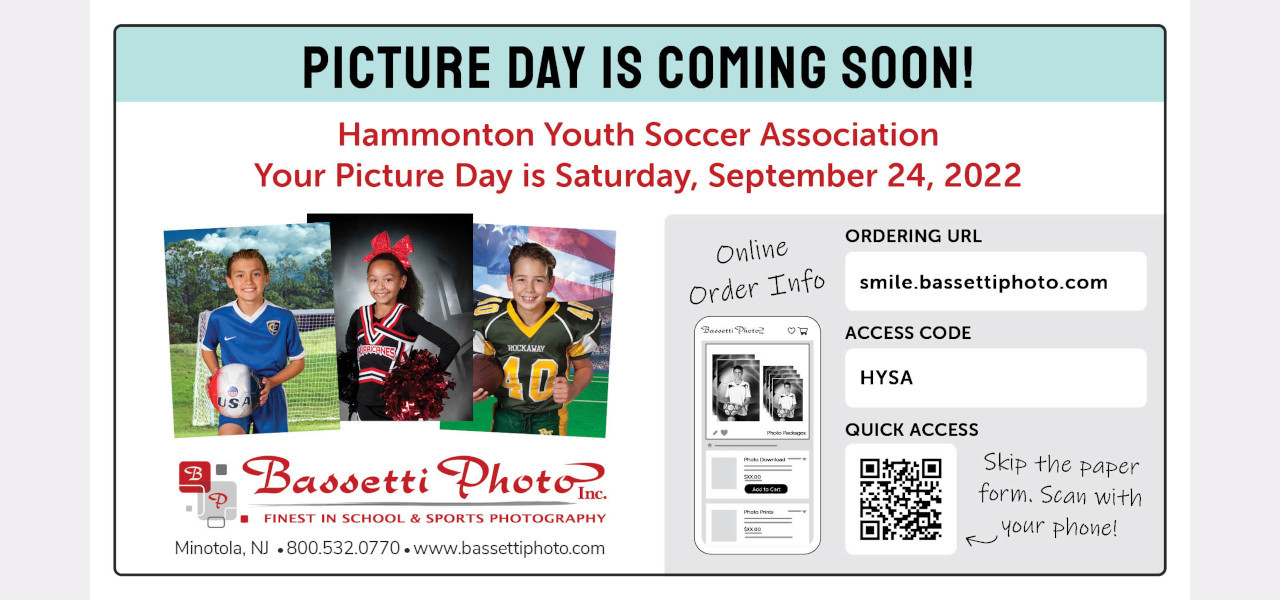
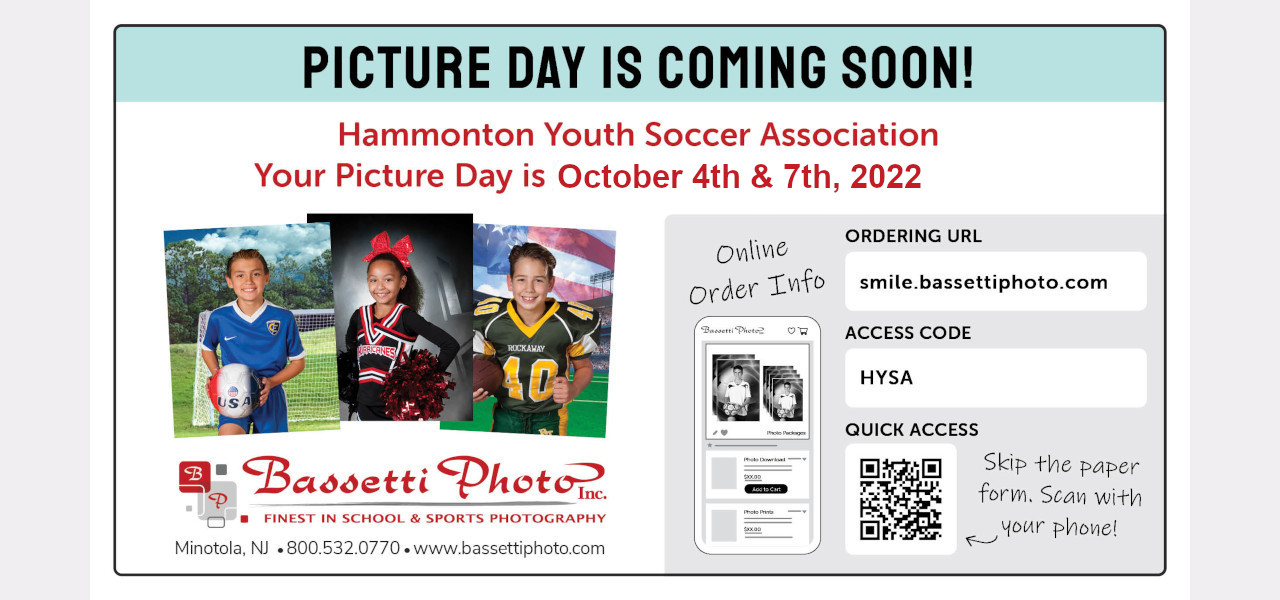
Updated Standings, Updated Index Page, and Updated Picture day photo and date

Changed region(s): [[0.4375, 0.27, 0.8125, 0.33]]

diff --git a/index.html b/index.html
@@ -263,9 +263,9 @@
                               </div>
                           </div>
                         </div>
-                        <div class="carousel-item">
+                        <!-- <div class="carousel-item">
                           <img src="/images/slider/hysa_family_fun_day.jpg" class="d-block w-100" alt="...">
-                          <!-- <div class="carousel-caption d-sm-block text-shadow">
+                          <div class="carousel-caption d-sm-block text-shadow">
                             <h2>New Hammonton Soccer gear online at Showcase Sports.</h2>
                             <div class="merchBtn">
                                 <a href="https://hammontonyouthsoccerapparel.itemorder.com/shop/home/" target="_blank">
@@ -274,8 +274,8 @@
                                     </button>
                                 </a>
                             </div>
-                          </div> -->
-                        </div>
+                          </div>
+                        </div> -->
                         <div class="carousel-item">
                             <img src="/images/slider/hysa_picture_day.jpg" class="d-block w-100" alt="...">
                             <!-- <div class="carousel-caption d-sm-block text-shadow">
@@ -339,32 +339,11 @@
                                 <div class="row newsGroup">
                                     <div class="newsItem">
                                         <div class="col-sm-2 newsImage">
-                                            <img src="/images/f0889088.svg" alt="" class="newsIcon">
-                                        </div>
-                                        <div class="col-sm-10 newsContent">
-                                            <h5 class="fw-bold">
-                                                Family Fun Day! - Saturday, September 17th<br>
-                                                8:30 AM - 11:30 AM<br>
-                                                Come See the Philadelphia Union Mascot & KonaIce
-                                            </h5>
-                                            <div class="merchBtn">
-                                                <!-- <a href="https://smile.bassettiphoto.com" target="_blank">
-                                                    <button type="button" class="btn btn-primary">
-                                                        <i class="fa-solid fa-bags-shopping"></i> Order Photos Here
-                                                    </button>
-                                                </a> -->
-                                            </div>
-                                        </div>
-                                        <div class="clearBoth"></div>
-                                    </div>
-                                </div>
-                                <div class="row newsGroup">
-                                    <div class="newsItem">
-                                        <div class="col-sm-2 newsImage">
                                             <img src="/images/f0976640.svg" alt="" class="newsIcon">
                                         </div>
                                         <div class="col-sm-10 newsContent">
-                                            <h5 class="fw-bold">Picture day - Saturday, September 24th<br>Use Code HYSA</h5>
+                                            <h5 class="fw-bold">Picture day - Saturday, October 4th & 7th<br>
+                                                More Into to Follow - Use Code HYSA </h5>
                                             <div class="merchBtn">
                                                 <a href="https://smile.bassettiphoto.com" target="_blank">
                                                     <button type="button" class="btn btn-primary">

diff --git a/senior_standings.html b/senior_standings.html
@@ -268,32 +268,37 @@
                                 <th scope="col" class="">TEAM</th>
                                 <th scope="col" class="">W</th>
                                 <th scope="col" class="">L</th>
+                                <th scope="col" class="">T</th>
+
                             </tr>
                             </thead>
                             <tbody>
-                            <tr>
-                                <th class="text-center" scope="row">1</th>
-                                <td>NINO'S PIZZA</td>
-                                <td class="text-center">1</td>
-                                <td class="text-center">0</td>
-                            </tr>
-                            <tr>
-                                <th class="text-center" scope="row">2</th>
-                                <td>OUR LADY OF MT. CARMEL</td>
-                                <td class="text-center">1</td>
-                                <td class="text-center">0</td>
-                            </tr>
+                                <tr>
+                                    <th class="text-center" scope="row">1</th>
+                                    <td>OUR LADY OF MT. CARMEL</td>
+                                    <td class="text-center">2</td>
+                                    <td class="text-center">0</td>
+                                    <td class="text-center">0</td>
+                                </tr>
+                                <tr>
+                                    <th class="text-center" scope="row">2</th>
+                                    <td>NINO'S PIZZA</td>
+                                    <td class="text-center">1</td>
+                                    <td class="text-center">1</td>
+                                    <td class="text-center">0</td>
+                                </tr>
                             <tr>
                                 <th class="text-center" scope="row">3</th>
                                 <td>WATERPROOFING 4 LESS</td>
                                 <td class="text-center">0</td>
-<td class="text-center">1</td>
-
+                                <td class="text-center">1</td>
+                                <td class="text-center">1</td>
                             </tr>
                             <tr>
                                 <th class="text-center" scope="row">4</th>
                                 <td>PHASE 3 TRUCKING</td>
                                 <td class="text-center">0</td>
+                                <td class="text-center">1</td>
                                 <td class="text-center">1</td>
                             </tr>
                             </tbody>

diff --git a/senior_schedule.html b/senior_schedule.html
@@ -317,11 +317,11 @@
                             </tr>
                             <tr class="table-bordered border-dark">
                                 <td>WATERPROOFING 4 LESS</td>
-                                <td class="text-center"> </td>
+                                <td class="text-center">0</td>
                             </tr>
                             <tr class="table-bordered border-dark">
                                 <td>PHASE 3 TRUCKING</td>
-                                <td class="text-center"></td>
+                                <td class="text-center">0</td>
                             </tr>
                             <tr>
                                 <td colspan="2" class="table-bordered" style="background-color: #f0eef0">&nbsp;</td>
@@ -332,11 +332,11 @@
                             </tr>
                             <tr>
                                 <td>OUR LADY OF MT. CARMEL</td>
-                                <td class="text-center"> </td>
+                                <td class="text-center">5</td>
                             </tr>
                             <tr>
                                 <td>NINO'S PIZZA</td>
-                                <td class="text-center"></td>
+                                <td class="text-center">1</td>
                             </tr>
                             </tbody>
                             
